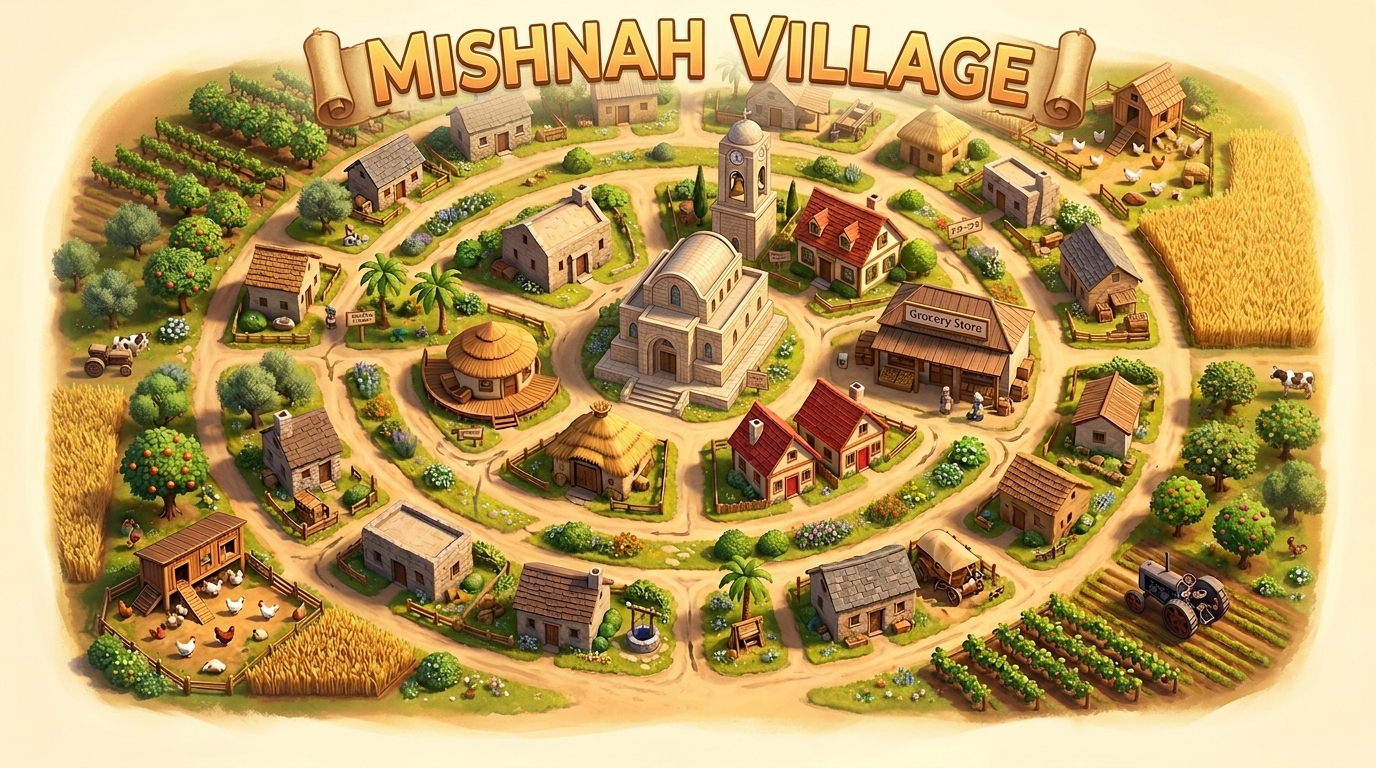
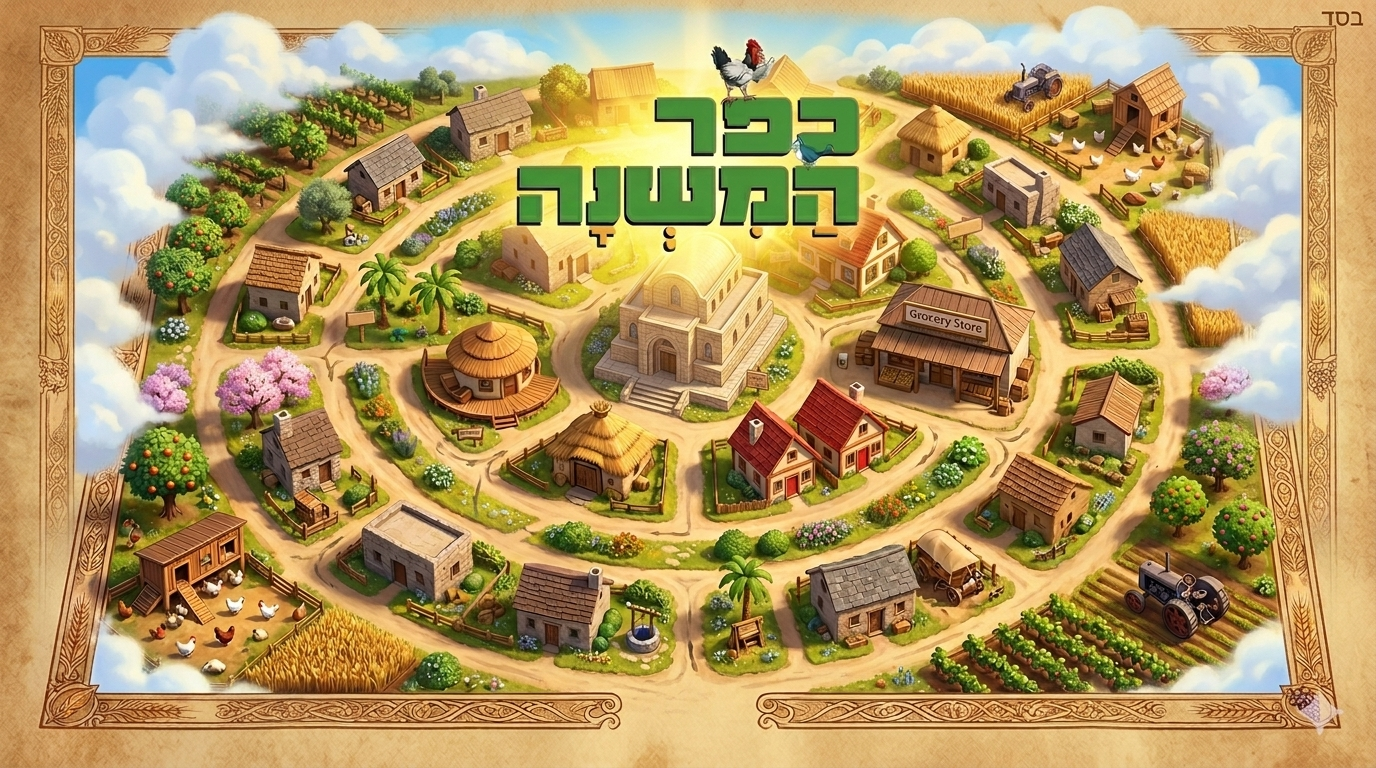
שיפור ממשק עריכה לערוך גם אפקטים

diff --git a/app/static/index.html b/app/static/index.html
@@ -228,6 +228,11 @@
       <div class="edit-scene-layout">
         <div class="edit-scene-main">
           <div class="scene-section">
+            <label class="section-label">📍 מיקום</label>
+            <input type="text" id="editSceneLocation" placeholder="שם המקום (מחסן, חדר, רחוב...)" style="width: 100%;" />
+          </div>
+
+          <div class="scene-section">
             <label class="section-label">טקסט המשנה</label>
             <textarea id="editSceneMishnaText" rows="3"></textarea>
           </div>
@@ -244,6 +249,12 @@
             </div>
             <textarea id="editSceneFullPrompt" rows="8" style="background: #f8f9fa; font-family: monospace; font-size: 12px;"></textarea>
             <p class="hint">עריכת טקסט זה תשפיע ישירות על התמונה שתיווצר אם תלחץ על "צור עם פרומפט זה".</p>
+          </div>
+
+          <div class="scene-section">
+            <label class="section-label">סגנון שנשלח ל-Gemini</label>
+            <textarea id="editSceneStyle" rows="3" readonly style="background: #f1f3f5; font-size: 12px; color: var(--muted);" placeholder="לא הוגדר סגנון (ניתן לערוך בהגדרות סגנון)"></textarea>
+            <p class="hint">הסגנון מוגדר עבור כל הפרויקט דרך "הגדרות סגנון".</p>
           </div>
           
         </div>
@@ -262,6 +273,31 @@
             <div class="time-inputs" style="margin-top: 5px;">
               <label>התחלה: <input type="text" id="editSceneStart" class="time-input" placeholder="00:00:00.000"></label>
               <label>סיום: <input type="text" id="editSceneEnd" class="time-input" placeholder="00:00:00.000"></label>
+            </div>
+          </div>
+
+          <div class="scene-section" style="margin-top: 15px;">
+            <label class="section-label">🎬 אפקט תנועה</label>
+            <div class="time-inputs" style="margin-top: 5px;">
+              <label>אפקט:
+                <select id="editSceneEffect">
+                  <option value="static">ללא תנועה</option>
+                  <option value="zoom_in">זום פנימה</option>
+                  <option value="zoom_out">זום החוצה</option>
+                  <option value="pan_left">תזוזה שמאלה</option>
+                  <option value="pan_right">תזוזה ימינה</option>
+                  <option value="pan_up">תזוזה למעלה</option>
+                  <option value="pan_down">תזוזה למטה</option>
+                  <option value="ken_burns">קן ברנס</option>
+                </select>
+              </label>
+              <label>עוצמה:
+                <select id="editSceneIntensity">
+                  <option value="subtle">עדינה</option>
+                  <option value="medium">בינונית</option>
+                  <option value="strong">חזקה</option>
+                </select>
+              </label>
             </div>
           </div>
 
@@ -305,6 +341,7 @@
       <div class="modal-actions" style="margin-top: 20px;">
         <button id="addSceneBeforeBtn" class="secondary">➕ הוסף סצנה לפני</button>
         <button id="addSceneAfterBtn" class="secondary">➕ הוסף סצנה אחרי</button>
+        <button id="deleteSceneBtn" class="danger">🗑️ מחק סצנה</button>
         <div style="flex: 1;"></div>
         <button id="generateWithFullPromptBtn" class="accent">🎨 צור עם הפרומפט המלא</button>
         <button id="saveEditSceneBtn" class="primary">💾 שמור הכל</button>

diff --git a/app/static/app.js b/app/static/app.js
@@ -826,10 +826,13 @@ async function openEditSceneModal(minuteId, sceneId) {
     if (!scene) return;
 
     $("#editSceneTimeLabel").textContent = `${scene.start} → ${scene.end}`;
+    $("#editSceneLocation").value = scene.location || "";
     $("#editSceneMishnaText").value = scene.mishna_text || "";
     $("#editScenePrompt").value = scene.prompt || "";
     $("#editSceneStart").value = scene.start || "";
     $("#editSceneEnd").value = scene.end || "";
+    $("#editSceneEffect").value = scene.effect || "ken_burns";
+    $("#editSceneIntensity").value = scene.intensity || "medium";
     $("#editSceneFullPrompt").value = "";
     $("#editSceneFullPrompt").placeholder = "טוען פרומפט מלא...";
 
@@ -860,6 +863,8 @@ async function refreshGeminiPrompt() {
     try {
         const res = await api(`/api/project/${encodeURIComponent(currentMishna)}/minute/${editModalMinuteId}/scene/${editModalSceneId}/gemini-prompt`);
         $("#editSceneFullPrompt").value = res.full_prompt;
+        const styleEl = $("#editSceneStyle");
+        if (styleEl) styleEl.value = res.style_description || "";
     } catch (e) {
         $("#editSceneFullPrompt").value = "שגיאה בטעינת פרומפט: " + e.message;
     }
@@ -903,6 +908,9 @@ $("#saveEditSceneBtn").onclick = async () => {
     const body = {
         mishna_text: $("#editSceneMishnaText").value,
         prompt: $("#editScenePrompt").value,
+        location: $("#editSceneLocation").value,
+        effect: $("#editSceneEffect").value,
+        intensity: $("#editSceneIntensity").value,
         start: newStart,
         end: newEnd,
         references: currentRefs
@@ -982,6 +990,21 @@ $("#addSceneBeforeBtn").onclick = async () => {
 
 $("#addSceneAfterBtn").onclick = async () => {
     await addSceneAt(editModalMinuteId, editModalSceneId, "after");
+};
+
+$("#deleteSceneBtn").onclick = async () => {
+    if (!confirm("למחוק את הסצנה? פעולה זו אינה הפיכה.")) return;
+    try {
+        setStatus("מוחק סצנה...");
+        await api(`/api/project/${encodeURIComponent(currentMishna)}/minute/${editModalMinuteId}/scene/${editModalSceneId}`, {
+            method: "DELETE"
+        });
+        await loadProject();
+        $("#editSceneModal").classList.add("hidden");
+        setStatus("הסצנה נמחקה ✓", "ok");
+    } catch (e) {
+        setStatus("שגיאה במחיקה: " + e.message, "err");
+    }
 };
 
 async function addSceneAt(minuteId, sceneId, position) {

diff --git a/app/static/style.css b/app/static/style.css
@@ -83,6 +83,7 @@ button {
 button:hover { background: #f0ece2; }
 button.primary { background: var(--primary); color: #fff; border-color: var(--primary); }
 button.accent { background: var(--accent); color: #fff; border-color: var(--accent); }
+button.danger { background: #e03131; color: #fff; border-color: #e03131; }
 button:disabled { opacity: .5; cursor: not-allowed; }
 
 .status {

diff --git a/app/main.py b/app/main.py
@@ -590,7 +590,43 @@ def get_scene_gemini_prompt(mishna_id: str, minute_id: str, scene_id: str):
                 labeled_refs.append({"path": meta["path"], "label": _ref_label(meta)})
 
     full_prompt = gemini_images.get_full_prompt(scene.get("prompt", ""), labeled_refs)
-    return {"full_prompt": full_prompt}
+    return {"full_prompt": full_prompt, "style_description": project.get("style_description", "")}
+
+
[email redacted]("/api/project/{mishna_id}/minute/{minute_id}/scene/{scene_id}")
+def delete_scene(mishna_id: str, minute_id: str, scene_id: str):
+    project = project_store.load_or_init_project(mishna_id)
+    minute_slot = project_store.get_slot(project, minute_id)
+    if minute_slot is None:
+        raise HTTPException(status_code=404, detail="משבצת דקה לא נמצאה")
+
+    scenes = minute_slot.get("scenes", [])
+    idx = next((i for i, s in enumerate(scenes) if s["scene_id"] == scene_id), -1)
+    if idx == -1:
+        raise HTTPException(status_code=404, detail="סצנה לא נמצאה")
+
+    removed = scenes.pop(idx)
+
+    # מתיחת הסצנה הקודמת (אם קיימת) לכסות את הזמן שהתפנה, אחרת הסצנה הבאה
+    from .srt_parser import timestamp_to_seconds, seconds_to_timestamp
+    if scenes:
+        if idx > 0:
+            prev = scenes[idx - 1]
+            prev["end"] = removed.get("end", prev.get("end"))
+            try:
+                prev["duration"] = max(0, timestamp_to_seconds(prev["end"]) - timestamp_to_seconds(prev["start"]))
+            except Exception:
+                pass
+        else:
+            nxt = scenes[0]
+            nxt["start"] = removed.get("start", nxt.get("start"))
+            try:
+                nxt["duration"] = max(0, timestamp_to_seconds(nxt["end"]) - timestamp_to_seconds(nxt["start"]))
+            except Exception:
+                pass
+
+    project_store.save_project(project)
+    return {"status": "ok", "deleted": scene_id}
 
 
 